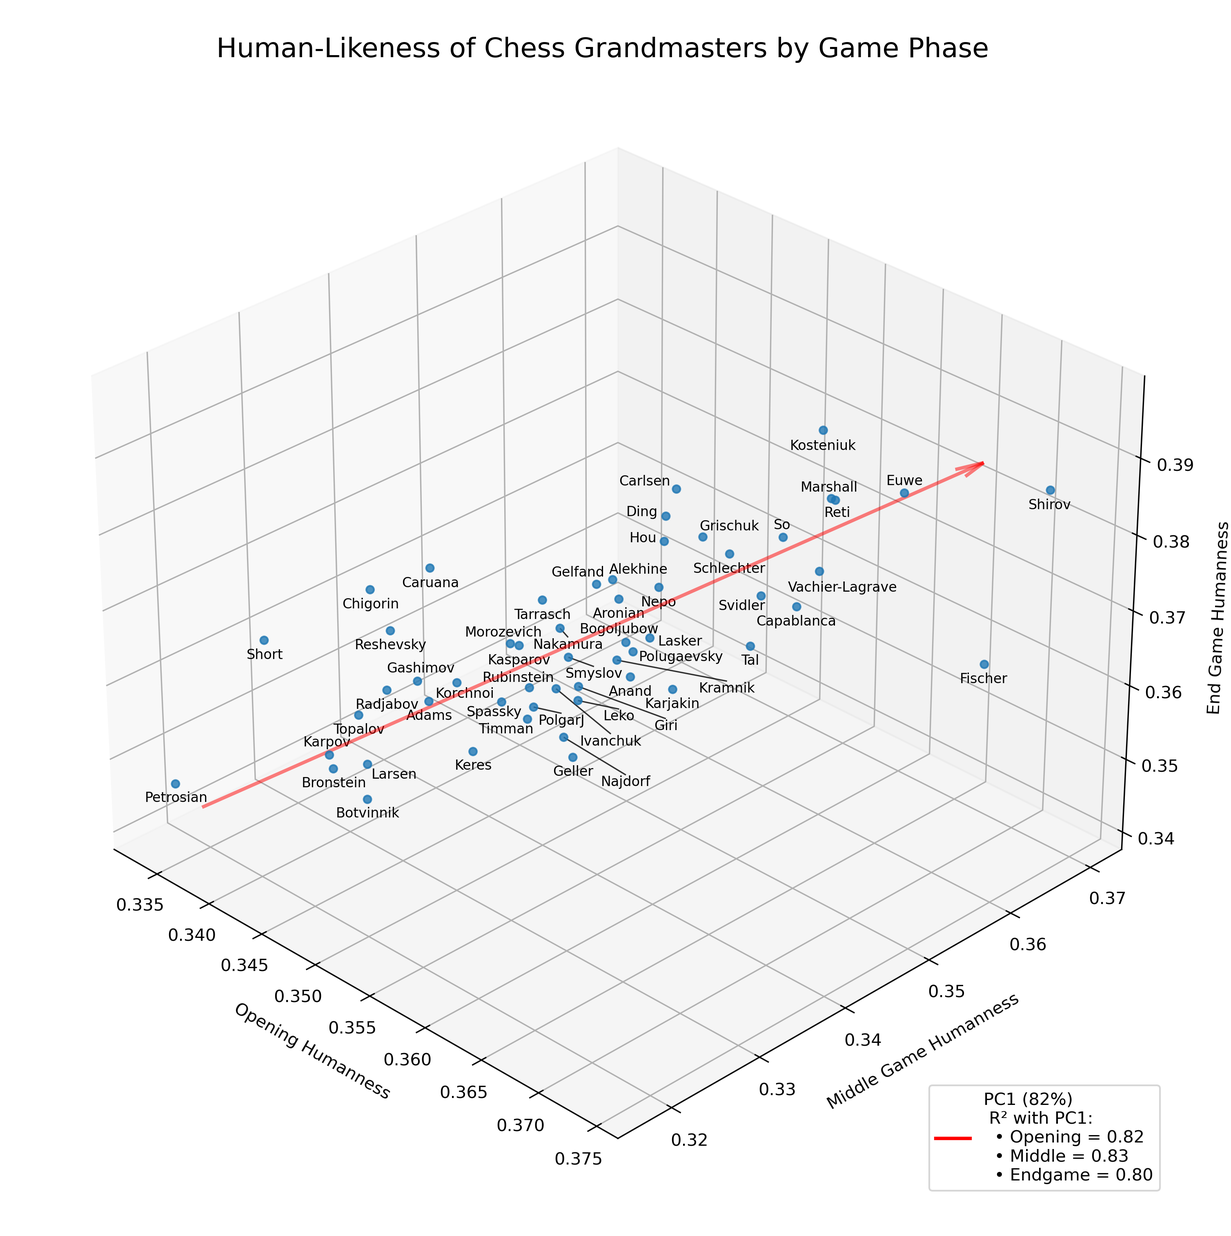
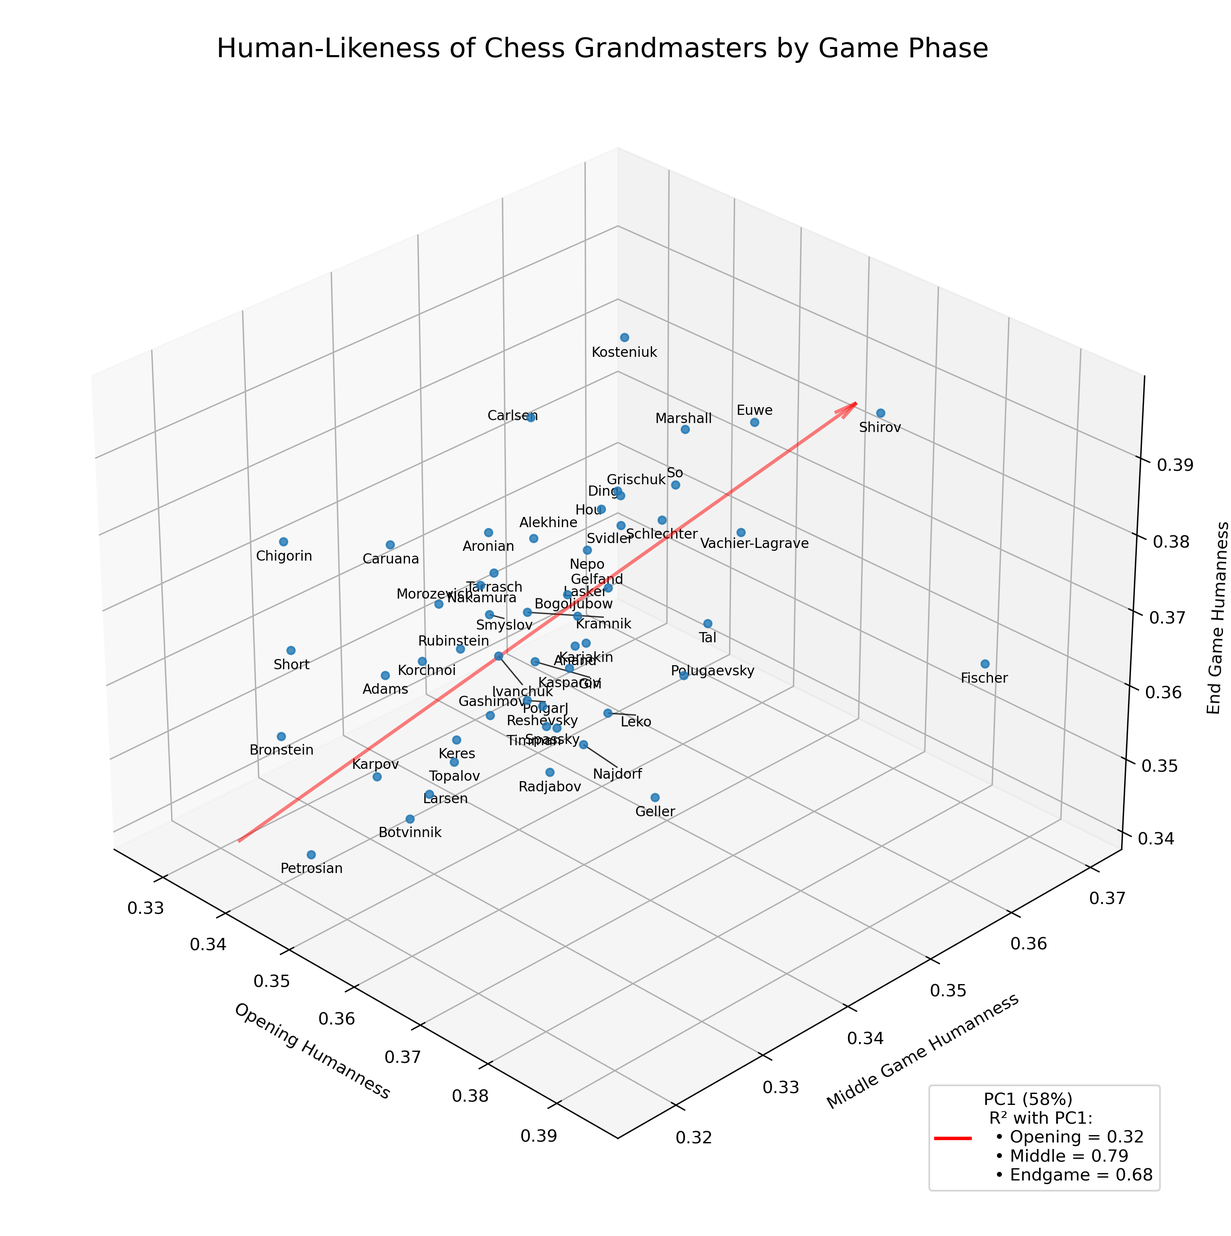
Update data files and graphs

diff --git a/plotly_3d.html b/plotly_3d.html
@@ -2,6 +2,6 @@
 <head><meta charset="utf-8" /></head>
 <body>
     <div>                        <script type="text/javascript">window.PlotlyConfig = {MathJaxConfig: 'local'};</script>
-        <script src="https://cdn.plot.ly/plotly-2.12.1.min.js"></script>                <div id="4e65ba79-264a-4ed9-9974-955863617e4a" class="plotly-graph-div" style="height:100%; width:100%;"></div>            <script type="text/javascript">                                    window.PLOTLYENV=window.PLOTLYENV || {};                                    if (document.getElementById("4e65ba79-264a-4ed9-9974-955863617e4a")) {                    Plotly.newPlot(                        "4e65ba79-264a-4ed9-9974-955863617e4a",                        [{"hovertemplate":"%{text}<extra></extra>","marker":{"color":"blue","opacity":0.9,"size":4},"mode":"markers","name":"Players","text":["Shirov","Tarrasch","Kramnik","Geller","Nakamura","Rubinstein","Caruana","Spassky","Schlechter","Morozevich","Timman","Smyslov","Petrosian","Grischuk","Giri","Kasparov","Polugaevsky","Leko","Karjakin","Euwe","Najdorf","Kosteniuk","Short","Reti","Adams","Lasker","Gashimov","Korchnoi","Larsen","Carlsen","Fischer","Nepomniachtchi","Botvinnik","Radjabov","Tal","Aronian","Capablanca","Topalov","Ding","PolgarJ","So","Bogoljubow","VachierLagrave","Hou","Alekhine","Chigorin","Anand","Bronstein","Reshevsky","Ivanchuk","Gelfand","Keres","Svidler","Karpov","Marshall"],"textfont":{"color":"black","size":10},"textposition":"top center","x":[0.3720566000000004,0.3512347999999991,0.35662089999999913,0.35402721666666714,0.3531390833333331,0.35274898333333266,0.34505583333333306,0.3468474833333329,0.3552543333333324,0.3504475666666659,0.3481885166666664,0.35156900000000035,0.33373581666666696,0.3564178999999993,0.3534117333333316,0.35055530000000085,0.351683833333332,0.35457038333333324,0.36034306666666643,0.37047676666666507,0.3545268499999996,0.36484815000000004,0.3369779333333344,0.3653867500000007,0.3429571499999997,0.35552396666666636,0.34826939999999973,0.3485391166666657,0.34008961666666576,0.3566403666666656,0.3738802833333325,0.35515086666666545,0.34050921666666767,0.34573566666666594,0.35971994999999857,0.3502551499999994,0.3633832833333335,0.34401075,0.3554076999999999,0.35505719999999913,0.3584286333333325,0.3524964333333337,0.3635026500000006,0.35307008333333284,0.3526838166666659,0.3421761499999998,0.3599364999999997,0.34228436666666623,0.3421695333333311,0.35562858333333314,0.3511926333333329,0.34576413333333417,0.3660648500000017,0.34205318333333296,0.35929411666666594],"y":[0.3701830666666667,0.3386168499999994,0.3402286166666673,0.338462333333333,0.3381932500000002,0.3351438499999994,0.33360126666666556,0.3393415833333331,0.3552551333333324,0.3359137000000006,0.3406378000000009,0.3411447,0.3178401666666679,0.35048036666666743,0.33993383333333294,0.33677618333333326,0.34856983333333474,0.33838140000000033,0.3418001500000011,0.35466531666666673,0.33677408333333414,0.3529120666666676,0.32450085000000073,0.35375355000000036,0.3357584500000005,0.3455006166666663,0.32808643333333315,0.33217081666666637,0.33204946666666746,0.3470473833333329,0.35998933333333266,0.3470344666666679,0.3314465333333329,0.32770338333333254,0.35177548333333336,0.3487604166666659,0.3521822833333339,0.3265496500000008,0.3474767833333323,0.3326886000000006,0.35731014999999994,0.3466586166666668,0.35467044999999986,0.3503957833333331,0.3448670833333342,0.33032586666666736,0.3374470166666669,0.32560396666666697,0.33249376666666663,0.3345311833333335,0.3449242333333328,0.3373029000000005,0.3442491000000013,0.3254766333333344,0.36186998333333337],"z":[0.38457891666666727,0.37260576666666617,0.36776336666666753,0.35379221666666727,0.3705348666666683,0.3641224333333333,0.3751181666666662,0.35520386666666626,0.37231600000000153,0.36778943333333314,0.3531337833333329,0.3637903000000003,0.34664670000000014,0.3780663500000013,0.3619752666666661,0.36712331666666725,0.3603173666666665,0.3618995500000006,0.36580136666666696,0.39153271666666567,0.357900566666667,0.39652981666666637,0.3646950500000018,0.387485533333334,0.354409516666668,0.36683063333333304,0.36569941666666617,0.36330875000000107,0.3457572999999998,0.38637276666666587,0.36879706666666767,0.37241526666666647,0.341600916666667,0.36279165000000024,0.3652705500000001,0.36625006666666704,0.37301505000000007,0.35879700000000003,0.3817254166666677,0.3647623833333341,0.37568898333333234,0.3632980666666658,0.3763548000000015,0.3751088333333324,0.37284206666666764,0.37198811666666703,0.3696797833333328,0.3507566166666677,0.36526873333333404,0.36654498333333185,0.371097400000001,0.3488073166666666,0.3809127166666662,0.35252478333333315,0.37893254999999865],"type":"scatter3d"},{"hovertemplate":"Variance explained: 0.8163<extra></extra>","line":{"color":"red","width":5},"mode":"lines","name":"PC1","x":[0.32879931455410916,0.3770915999913447],"y":[0.31134380398077877,0.371472806322252],"z":[0.33541333607420326,0.39907147180458485],"type":"scatter3d"}],                        {"template":{"data":{"histogram2dcontour":[{"type":"histogram2dcontour","colorbar":{"outlinewidth":0,"ticks":""},"colorscale":[[0.0,"#0d0887"],[0.1111111111111111,"#46039f"],[0.2222222222222222,"#7201a8"],[0.3333333333333333,"#9c179e"],[0.4444444444444444,"#bd3786"],[0.5555555555555556,"#d8576b"],[0.6666666666666666,"#ed7953"],[0.7777777777777778,"#fb9f3a"],[0.8888888888888888,"#fdca26"],[1.0,"#f0f921"]]}],"choropleth":[{"type":"choropleth","colorbar":{"outlinewidth":0,"ticks":""}}],"histogram2d":[{"type":"histogram2d","colorbar":{"outlinewidth":0,"ticks":""},"colorscale":[[0.0,"#0d0887"],[0.1111111111111111,"#46039f"],[0.2222222222222222,"#7201a8"],[0.3333333333333333,"#9c179e"],[0.4444444444444444,"#bd3786"],[0.5555555555555556,"#d8576b"],[0.6666666666666666,"#ed7953"],[0.7777777777777778,"#fb9f3a"],[0.8888888888888888,"#fdca26"],[1.0,"#f0f921"]]}],"heatmap":[{"type":"heatmap","colorbar":{"outlinewidth":0,"ticks":""},"colorscale":[[0.0,"#0d0887"],[0.1111111111111111,"#46039f"],[0.2222222222222222,"#7201a8"],[0.3333333333333333,"#9c179e"],[0.4444444444444444,"#bd3786"],[0.5555555555555556,"#d8576b"],[0.6666666666666666,"#ed7953"],[0.7777777777777778,"#fb9f3a"],[0.8888888888888888,"#fdca26"],[1.0,"#f0f921"]]}],"heatmapgl":[{"type":"heatmapgl","colorbar":{"outlinewidth":0,"ticks":""},"colorscale":[[0.0,"#0d0887"],[0.1111111111111111,"#46039f"],[0.2222222222222222,"#7201a8"],[0.3333333333333333,"#9c179e"],[0.4444444444444444,"#bd3786"],[0.5555555555555556,"#d8576b"],[0.6666666666666666,"#ed7953"],[0.7777777777777778,"#fb9f3a"],[0.8888888888888888,"#fdca26"],[1.0,"#f0f921"]]}],"contourcarpet":[{"type":"contourcarpet","colorbar":{"outlinewidth":0,"ticks":""}}],"contour":[{"type":"contour","colorbar":{"outlinewidth":0,"ticks":""},"colorscale":[[0.0,"#0d0887"],[0.1111111111111111,"#46039f"],[0.2222222222222222,"#7201a8"],[0.3333333333333333,"#9c179e"],[0.4444444444444444,"#bd3786"],[0.5555555555555556,"#d8576b"],[0.6666666666666666,"#ed7953"],[0.7777777777777778,"#fb9f3a"],[0.8888888888888888,"#fdca26"],[1.0,"#f0f921"]]}],"surface":[{"type":"surface","colorbar":{"outlinewidth":0,"ticks":""},"colorscale":[[0.0,"#0d0887"],[0.1111111111111111,"#46039f"],[0.2222222222222222,"#7201a8"],[0.3333333333333333,"#9c179e"],[0.4444444444444444,"#bd3786"],[0.5555555555555556,"#d8576b"],[0.6666666666666666,"#ed7953"],[0.7777777777777778,"#fb9f3a"],[0.8888888888888888,"#fdca26"],[1.0,"#f0f921"]]}],"mesh3d":[{"type":"mesh3d","colorbar":{"outlinewidth":0,"ticks":""}}],"scatter":[{"fillpattern":{"fillmode":"overlay","size":10,"solidity":0.2},"type":"scatter"}],"parcoords":[{"type":"parcoords","line":{"colorbar":{"outlinewidth":0,"ticks":""}}}],"scatterpolargl":[{"type":"scatterpolargl","marker":{"colorbar":{"outlinewidth":0,"ticks":""}}}],"bar":[{"error_x":{"color":"#2a3f5f"},"error_y":{"color":"#2a3f5f"},"marker":{"line":{"color":"#E5ECF6","width":0.5},"pattern":{"fillmode":"overlay","size":10,"solidity":0.2}},"type":"bar"}],"scattergeo":[{"type":"scattergeo","marker":{"colorbar":{"outlinewidth":0,"ticks":""}}}],"scatterpolar":[{"type":"scatterpolar","marker":{"colorbar":{"outlinewidth":0,"ticks":""}}}],"histogram":[{"marker":{"pattern":{"fillmode":"overlay","size":10,"solidity":0.2}},"type":"histogram"}],"scattergl":[{"type":"scattergl","marker":{"colorbar":{"outlinewidth":0,"ticks":""}}}],"scatter3d":[{"type":"scatter3d","line":{"colorbar":{"outlinewidth":0,"ticks":""}},"marker":{"colorbar":{"outlinewidth":0,"ticks":""}}}],"scattermapbox":[{"type":"scattermapbox","marker":{"colorbar":{"outlinewidth":0,"ticks":""}}}],"scatterternary":[{"type":"scatterternary","marker":{"colorbar":{"outlinewidth":0,"ticks":""}}}],"scattercarpet":[{"type":"scattercarpet","marker":{"colorbar":{"outlinewidth":0,"ticks":""}}}],"carpet":[{"aaxis":{"endlinecolor":"#2a3f5f","gridcolor":"white","linecolor":"white","minorgridcolor":"white","startlinecolor":"#2a3f5f"},"baxis":{"endlinecolor":"#2a3f5f","gridcolor":"white","linecolor":"white","minorgridcolor":"white","startlinecolor":"#2a3f5f"},"type":"carpet"}],"table":[{"cells":{"fill":{"color":"#EBF0F8"},"line":{"color":"white"}},"header":{"fill":{"color":"#C8D4E3"},"line":{"color":"white"}},"type":"table"}],"barpolar":[{"marker":{"line":{"color":"#E5ECF6","width":0.5},"pattern":{"fillmode":"overlay","size":10,"solidity":0.2}},"type":"barpolar"}],"pie":[{"automargin":true,"type":"pie"}]},"layout":{"autotypenumbers":"strict","colorway":["#636efa","#EF553B","#00cc96","#ab63fa","#FFA15A","#19d3f3","#FF6692","#B6E880","#FF97FF","#FECB52"],"font":{"color":"#2a3f5f"},"hovermode":"closest","hoverlabel":{"align":"left"},"paper_bgcolor":"white","plot_bgcolor":"#E5ECF6","polar":{"bgcolor":"#E5ECF6","angularaxis":{"gridcolor":"white","linecolor":"white","ticks":""},"radialaxis":{"gridcolor":"white","linecolor":"white","ticks":""}},"ternary":{"bgcolor":"#E5ECF6","aaxis":{"gridcolor":"white","linecolor":"white","ticks":""},"baxis":{"gridcolor":"white","linecolor":"white","ticks":""},"caxis":{"gridcolor":"white","linecolor":"white","ticks":""}},"coloraxis":{"colorbar":{"outlinewidth":0,"ticks":""}},"colorscale":{"sequential":[[0.0,"#0d0887"],[0.1111111111111111,"#46039f"],[0.2222222222222222,"#7201a8"],[0.3333333333333333,"#9c179e"],[0.4444444444444444,"#bd3786"],[0.5555555555555556,"#d8576b"],[0.6666666666666666,"#ed7953"],[0.7777777777777778,"#fb9f3a"],[0.8888888888888888,"#fdca26"],[1.0,"#f0f921"]],"sequentialminus":[[0.0,"#0d0887"],[0.1111111111111111,"#46039f"],[0.2222222222222222,"#7201a8"],[0.3333333333333333,"#9c179e"],[0.4444444444444444,"#bd3786"],[0.5555555555555556,"#d8576b"],[0.6666666666666666,"#ed7953"],[0.7777777777777778,"#fb9f3a"],[0.8888888888888888,"#fdca26"],[1.0,"#f0f921"]],"diverging":[[0,"#8e0152"],[0.1,"#c51b7d"],[0.2,"#de77ae"],[0.3,"#f1b6da"],[0.4,"#fde0ef"],[0.5,"#f7f7f7"],[0.6,"#e6f5d0"],[0.7,"#b8e186"],[0.8,"#7fbc41"],[0.9,"#4d9221"],[1,"#276419"]]},"xaxis":{"gridcolor":"white","linecolor":"white","ticks":"","title":{"standoff":15},"zerolinecolor":"white","automargin":true,"zerolinewidth":2},"yaxis":{"gridcolor":"white","linecolor":"white","ticks":"","title":{"standoff":15},"zerolinecolor":"white","automargin":true,"zerolinewidth":2},"scene":{"xaxis":{"backgroundcolor":"#E5ECF6","gridcolor":"white","linecolor":"white","showbackground":true,"ticks":"","zerolinecolor":"white","gridwidth":2},"yaxis":{"backgroundcolor":"#E5ECF6","gridcolor":"white","linecolor":"white","showbackground":true,"ticks":"","zerolinecolor":"white","gridwidth":2},"zaxis":{"backgroundcolor":"#E5ECF6","gridcolor":"white","linecolor":"white","showbackground":true,"ticks":"","zerolinecolor":"white","gridwidth":2}},"shapedefaults":{"line":{"color":"#2a3f5f"}},"annotationdefaults":{"arrowcolor":"#2a3f5f","arrowhead":0,"arrowwidth":1},"geo":{"bgcolor":"white","landcolor":"#E5ECF6","subunitcolor":"white","showland":true,"showlakes":true,"lakecolor":"white"},"title":{"x":0.05},"mapbox":{"style":"light"}}},"title":{"font":{"size":18},"text":"GM Human-Likeness by Game Phase","y":0.98,"yanchor":"top","xanchor":"center","x":0.5},"scene":{"xaxis":{"title":{"text":"Opening","font":{"size":12}}},"yaxis":{"title":{"text":"Middlegame","font":{"size":12}}},"zaxis":{"title":{"text":"Endgame","font":{"size":12}}},"camera":{"eye":{"x":1.6,"y":-1.25,"z":1.6}},"aspectmode":"cube"},"margin":{"l":0,"r":0,"b":0,"t":0},"font":{"size":12},"uniformtext":{"minsize":5,"mode":"hide"},"autosize":true,"legend":{"orientation":"h","yanchor":"top","y":-0.05,"xanchor":"center","x":0.5}},                        {"responsive": true}                    )                };                            </script>        </div>
+        <script src="https://cdn.plot.ly/plotly-2.12.1.min.js"></script>                <div id="351bc26e-f300-4a58-83bd-242f63792426" class="plotly-graph-div" style="height:100%; width:100%;"></div>            <script type="text/javascript">                                    window.PLOTLYENV=window.PLOTLYENV || {};                                    if (document.getElementById("351bc26e-f300-4a58-83bd-242f63792426")) {                    Plotly.newPlot(                        "351bc26e-f300-4a58-83bd-242f63792426",                        [{"hovertemplate":"%{text}<extra></extra>","marker":{"color":"blue","opacity":0.9,"size":4},"mode":"markers","name":"Players","text":["Shirov","Tarrasch","Kramnik","Geller","Nakamura","Rubinstein","Caruana","Spassky","Schlechter","Morozevich","Timman","Smyslov","Petrosian","Grischuk","Giri","Kasparov","Polugaevsky","Leko","Karjakin","Euwe","Najdorf","Kosteniuk","Short","Adams","Lasker","Gashimov","Korchnoi","Larsen","Carlsen","Fischer","Nepomniachtchi","Botvinnik","Radjabov","Tal","Aronian","Topalov","Ding","PolgarJ","So","Bogoljubow","VachierLagrave","Hou","Alekhine","Chigorin","Anand","Bronstein","Reshevsky","Ivanchuk","Gelfand","Keres","Svidler","Karpov","Marshall"],"textfont":{"color":"black","size":10},"textposition":"top center","x":[0.3666408333333314,0.3483979999999966,0.3513156999999989,0.37258101666666366,0.346892166666664,0.34773119999999863,0.33923448333333234,0.3568273499999959,0.3525408999999984,0.34346539999999937,0.353555383333332,0.3442757999999998,0.34769116666666483,0.3522935166666657,0.35280566666666513,0.362074366666665,0.364192166666665,0.3656963166666651,0.3581224499999971,0.36675574999999677,0.36412628333333,0.34980254999999905,0.33594484999999946,0.3350310499999981,0.3505843666666638,0.36155139999999913,0.34581973333333116,0.3467243833333342,0.3431660166666637,0.39383099999999904,0.3516466333333307,0.34441543333333197,0.3708371499999984,0.36374203333333266,0.334174033333331,0.3580812666666653,0.3556343833333312,0.3610407833333318,0.35199349999999724,0.3506208666666631,0.36496959999999984,0.3494877499999988,0.34630313333332924,0.32694839999999925,0.3620649333333325,0.33237541666666554,0.363584616666664,0.3543750999999977,0.35746794999999715,0.34402001666666615,0.36022334999999944,0.34761379999999803,0.3477616999999962],"y":[0.3701830666666667,0.3386168499999994,0.3402286166666673,0.338462333333333,0.3381932500000002,0.3351438499999994,0.33360126666666556,0.3393415833333331,0.3552551333333324,0.3359137000000006,0.3406378000000009,0.3411447,0.3178401666666679,0.35048036666666743,0.33993383333333294,0.33677618333333326,0.34856983333333474,0.33838140000000033,0.3418001500000011,0.35466531666666673,0.33677408333333414,0.3529120666666676,0.32450085000000073,0.3357584500000005,0.3455006166666663,0.32808643333333315,0.33217081666666637,0.33204946666666746,0.3470473833333329,0.35998933333333266,0.3470344666666679,0.3314465333333329,0.32770338333333254,0.35177548333333336,0.3487604166666659,0.3265496500000008,0.3474767833333323,0.3326886000000006,0.35731014999999994,0.3466586166666668,0.35467044999999986,0.3503957833333331,0.3448670833333342,0.33032586666666736,0.3374470166666669,0.32560396666666697,0.33249376666666663,0.3345311833333335,0.3449242333333328,0.3373029000000005,0.3442491000000013,0.3254766333333344,0.36186998333333337],"z":[0.38457891666666727,0.37260576666666617,0.36776336666666753,0.35379221666666727,0.3705348666666683,0.3641224333333333,0.3751181666666662,0.35520386666666626,0.37231600000000153,0.36778943333333314,0.3531337833333329,0.3637903000000003,0.34664670000000014,0.3780663500000013,0.3619752666666661,0.36712331666666725,0.3603173666666665,0.3618995500000006,0.36580136666666696,0.39153271666666567,0.357900566666667,0.39652981666666637,0.3646950500000018,0.354409516666668,0.36683063333333304,0.36569941666666617,0.36330875000000107,0.3457572999999998,0.38637276666666587,0.36879706666666767,0.37241526666666647,0.341600916666667,0.36279165000000024,0.3652705500000001,0.36625006666666704,0.35879700000000003,0.3817254166666677,0.3647623833333341,0.37568898333333234,0.3632980666666658,0.3763548000000015,0.3751088333333324,0.37284206666666764,0.37198811666666703,0.3696797833333328,0.3507566166666677,0.36526873333333404,0.36654498333333185,0.371097400000001,0.3488073166666666,0.3809127166666662,0.35252478333333315,0.37893254999999865],"type":"scatter3d"},{"hovertemplate":"Variance explained: 0.8163<extra></extra>","line":{"color":"red","width":5},"mode":"lines","name":"PC1","x":[0.3310826317024679,0.37529673119061013],"y":[0.30901106604016915,0.37293312075228413],"z":[0.3352909127632576,0.3982121677398873],"type":"scatter3d"}],                        {"template":{"data":{"histogram2dcontour":[{"type":"histogram2dcontour","colorbar":{"outlinewidth":0,"ticks":""},"colorscale":[[0.0,"#0d0887"],[0.1111111111111111,"#46039f"],[0.2222222222222222,"#7201a8"],[0.3333333333333333,"#9c179e"],[0.4444444444444444,"#bd3786"],[0.5555555555555556,"#d8576b"],[0.6666666666666666,"#ed7953"],[0.7777777777777778,"#fb9f3a"],[0.8888888888888888,"#fdca26"],[1.0,"#f0f921"]]}],"choropleth":[{"type":"choropleth","colorbar":{"outlinewidth":0,"ticks":""}}],"histogram2d":[{"type":"histogram2d","colorbar":{"outlinewidth":0,"ticks":""},"colorscale":[[0.0,"#0d0887"],[0.1111111111111111,"#46039f"],[0.2222222222222222,"#7201a8"],[0.3333333333333333,"#9c179e"],[0.4444444444444444,"#bd3786"],[0.5555555555555556,"#d8576b"],[0.6666666666666666,"#ed7953"],[0.7777777777777778,"#fb9f3a"],[0.8888888888888888,"#fdca26"],[1.0,"#f0f921"]]}],"heatmap":[{"type":"heatmap","colorbar":{"outlinewidth":0,"ticks":""},"colorscale":[[0.0,"#0d0887"],[0.1111111111111111,"#46039f"],[0.2222222222222222,"#7201a8"],[0.3333333333333333,"#9c179e"],[0.4444444444444444,"#bd3786"],[0.5555555555555556,"#d8576b"],[0.6666666666666666,"#ed7953"],[0.7777777777777778,"#fb9f3a"],[0.8888888888888888,"#fdca26"],[1.0,"#f0f921"]]}],"heatmapgl":[{"type":"heatmapgl","colorbar":{"outlinewidth":0,"ticks":""},"colorscale":[[0.0,"#0d0887"],[0.1111111111111111,"#46039f"],[0.2222222222222222,"#7201a8"],[0.3333333333333333,"#9c179e"],[0.4444444444444444,"#bd3786"],[0.5555555555555556,"#d8576b"],[0.6666666666666666,"#ed7953"],[0.7777777777777778,"#fb9f3a"],[0.8888888888888888,"#fdca26"],[1.0,"#f0f921"]]}],"contourcarpet":[{"type":"contourcarpet","colorbar":{"outlinewidth":0,"ticks":""}}],"contour":[{"type":"contour","colorbar":{"outlinewidth":0,"ticks":""},"colorscale":[[0.0,"#0d0887"],[0.1111111111111111,"#46039f"],[0.2222222222222222,"#7201a8"],[0.3333333333333333,"#9c179e"],[0.4444444444444444,"#bd3786"],[0.5555555555555556,"#d8576b"],[0.6666666666666666,"#ed7953"],[0.7777777777777778,"#fb9f3a"],[0.8888888888888888,"#fdca26"],[1.0,"#f0f921"]]}],"surface":[{"type":"surface","colorbar":{"outlinewidth":0,"ticks":""},"colorscale":[[0.0,"#0d0887"],[0.1111111111111111,"#46039f"],[0.2222222222222222,"#7201a8"],[0.3333333333333333,"#9c179e"],[0.4444444444444444,"#bd3786"],[0.5555555555555556,"#d8576b"],[0.6666666666666666,"#ed7953"],[0.7777777777777778,"#fb9f3a"],[0.8888888888888888,"#fdca26"],[1.0,"#f0f921"]]}],"mesh3d":[{"type":"mesh3d","colorbar":{"outlinewidth":0,"ticks":""}}],"scatter":[{"fillpattern":{"fillmode":"overlay","size":10,"solidity":0.2},"type":"scatter"}],"parcoords":[{"type":"parcoords","line":{"colorbar":{"outlinewidth":0,"ticks":""}}}],"scatterpolargl":[{"type":"scatterpolargl","marker":{"colorbar":{"outlinewidth":0,"ticks":""}}}],"bar":[{"error_x":{"color":"#2a3f5f"},"error_y":{"color":"#2a3f5f"},"marker":{"line":{"color":"#E5ECF6","width":0.5},"pattern":{"fillmode":"overlay","size":10,"solidity":0.2}},"type":"bar"}],"scattergeo":[{"type":"scattergeo","marker":{"colorbar":{"outlinewidth":0,"ticks":""}}}],"scatterpolar":[{"type":"scatterpolar","marker":{"colorbar":{"outlinewidth":0,"ticks":""}}}],"histogram":[{"marker":{"pattern":{"fillmode":"overlay","size":10,"solidity":0.2}},"type":"histogram"}],"scattergl":[{"type":"scattergl","marker":{"colorbar":{"outlinewidth":0,"ticks":""}}}],"scatter3d":[{"type":"scatter3d","line":{"colorbar":{"outlinewidth":0,"ticks":""}},"marker":{"colorbar":{"outlinewidth":0,"ticks":""}}}],"scattermapbox":[{"type":"scattermapbox","marker":{"colorbar":{"outlinewidth":0,"ticks":""}}}],"scatterternary":[{"type":"scatterternary","marker":{"colorbar":{"outlinewidth":0,"ticks":""}}}],"scattercarpet":[{"type":"scattercarpet","marker":{"colorbar":{"outlinewidth":0,"ticks":""}}}],"carpet":[{"aaxis":{"endlinecolor":"#2a3f5f","gridcolor":"white","linecolor":"white","minorgridcolor":"white","startlinecolor":"#2a3f5f"},"baxis":{"endlinecolor":"#2a3f5f","gridcolor":"white","linecolor":"white","minorgridcolor":"white","startlinecolor":"#2a3f5f"},"type":"carpet"}],"table":[{"cells":{"fill":{"color":"#EBF0F8"},"line":{"color":"white"}},"header":{"fill":{"color":"#C8D4E3"},"line":{"color":"white"}},"type":"table"}],"barpolar":[{"marker":{"line":{"color":"#E5ECF6","width":0.5},"pattern":{"fillmode":"overlay","size":10,"solidity":0.2}},"type":"barpolar"}],"pie":[{"automargin":true,"type":"pie"}]},"layout":{"autotypenumbers":"strict","colorway":["#636efa","#EF553B","#00cc96","#ab63fa","#FFA15A","#19d3f3","#FF6692","#B6E880","#FF97FF","#FECB52"],"font":{"color":"#2a3f5f"},"hovermode":"closest","hoverlabel":{"align":"left"},"paper_bgcolor":"white","plot_bgcolor":"#E5ECF6","polar":{"bgcolor":"#E5ECF6","angularaxis":{"gridcolor":"white","linecolor":"white","ticks":""},"radialaxis":{"gridcolor":"white","linecolor":"white","ticks":""}},"ternary":{"bgcolor":"#E5ECF6","aaxis":{"gridcolor":"white","linecolor":"white","ticks":""},"baxis":{"gridcolor":"white","linecolor":"white","ticks":""},"caxis":{"gridcolor":"white","linecolor":"white","ticks":""}},"coloraxis":{"colorbar":{"outlinewidth":0,"ticks":""}},"colorscale":{"sequential":[[0.0,"#0d0887"],[0.1111111111111111,"#46039f"],[0.2222222222222222,"#7201a8"],[0.3333333333333333,"#9c179e"],[0.4444444444444444,"#bd3786"],[0.5555555555555556,"#d8576b"],[0.6666666666666666,"#ed7953"],[0.7777777777777778,"#fb9f3a"],[0.8888888888888888,"#fdca26"],[1.0,"#f0f921"]],"sequentialminus":[[0.0,"#0d0887"],[0.1111111111111111,"#46039f"],[0.2222222222222222,"#7201a8"],[0.3333333333333333,"#9c179e"],[0.4444444444444444,"#bd3786"],[0.5555555555555556,"#d8576b"],[0.6666666666666666,"#ed7953"],[0.7777777777777778,"#fb9f3a"],[0.8888888888888888,"#fdca26"],[1.0,"#f0f921"]],"diverging":[[0,"#8e0152"],[0.1,"#c51b7d"],[0.2,"#de77ae"],[0.3,"#f1b6da"],[0.4,"#fde0ef"],[0.5,"#f7f7f7"],[0.6,"#e6f5d0"],[0.7,"#b8e186"],[0.8,"#7fbc41"],[0.9,"#4d9221"],[1,"#276419"]]},"xaxis":{"gridcolor":"white","linecolor":"white","ticks":"","title":{"standoff":15},"zerolinecolor":"white","automargin":true,"zerolinewidth":2},"yaxis":{"gridcolor":"white","linecolor":"white","ticks":"","title":{"standoff":15},"zerolinecolor":"white","automargin":true,"zerolinewidth":2},"scene":{"xaxis":{"backgroundcolor":"#E5ECF6","gridcolor":"white","linecolor":"white","showbackground":true,"ticks":"","zerolinecolor":"white","gridwidth":2},"yaxis":{"backgroundcolor":"#E5ECF6","gridcolor":"white","linecolor":"white","showbackground":true,"ticks":"","zerolinecolor":"white","gridwidth":2},"zaxis":{"backgroundcolor":"#E5ECF6","gridcolor":"white","linecolor":"white","showbackground":true,"ticks":"","zerolinecolor":"white","gridwidth":2}},"shapedefaults":{"line":{"color":"#2a3f5f"}},"annotationdefaults":{"arrowcolor":"#2a3f5f","arrowhead":0,"arrowwidth":1},"geo":{"bgcolor":"white","landcolor":"#E5ECF6","subunitcolor":"white","showland":true,"showlakes":true,"lakecolor":"white"},"title":{"x":0.05},"mapbox":{"style":"light"}}},"title":{"font":{"size":18},"text":"GM Human-Likeness by Game Phase","y":0.98,"yanchor":"top","xanchor":"center","x":0.5},"scene":{"xaxis":{"title":{"text":"Opening","font":{"size":12}}},"yaxis":{"title":{"text":"Middlegame","font":{"size":12}}},"zaxis":{"title":{"text":"Endgame","font":{"size":12}}},"camera":{"eye":{"x":1.6,"y":-1.25,"z":1.6}},"aspectmode":"cube"},"margin":{"l":0,"r":0,"b":0,"t":0},"font":{"size":12},"uniformtext":{"minsize":5,"mode":"hide"},"autosize":true,"legend":{"orientation":"h","yanchor":"top","y":-0.05,"xanchor":"center","x":0.5}},                        {"responsive": true}                    )                };                            </script>        </div>
 </body>
 </html>
